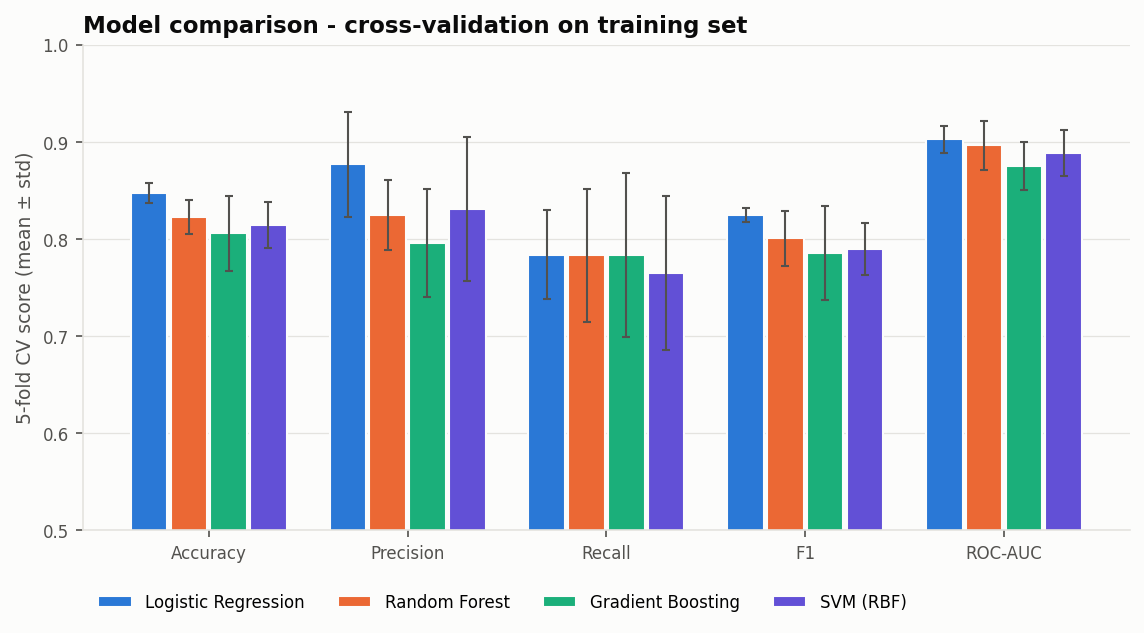
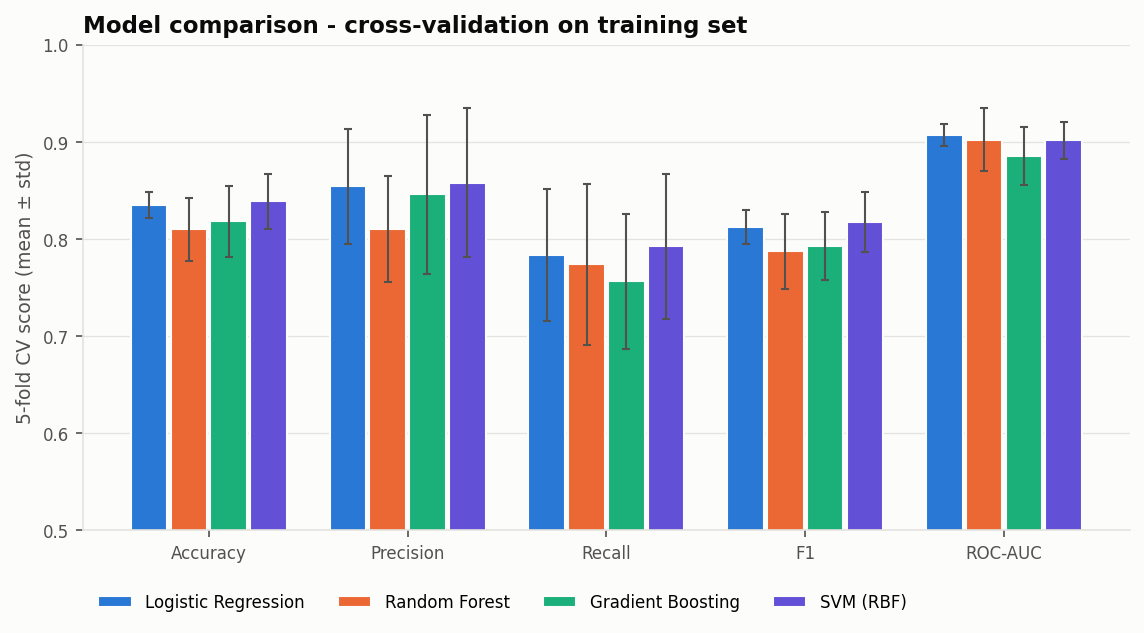
Fix: quick runs no longer overwrite champion; retrain SVM; add Stage 4-5 screenshots

diff --git a/src/train.py b/src/train.py
@@ -22,8 +22,10 @@ What one run of this script does
 Usage
 -----
     python -m src.train                  # full search (~1-2 min on a laptop)
-    python -m src.train --quick          # tiny grid, used in CI (separate
-                                         # experiment, no registry update)
+    python -m src.train --quick          # tiny grid smoke run: separate
+                                         # experiment, no registry update,
+                                         # outputs to models/quick/ and
+                                         # reports/quick/ (never the champion)
     mlflow ui --backend-store-uri mlruns # then open http://127.0.0.1:5000
 """
 
@@ -106,6 +108,24 @@ def tracking_uri() -> str:
     # e.g. http://localhost:5000 when an MLflow server is running.
     return os.environ.get("MLFLOW_TRACKING_URI",
                           (PROJECT_ROOT / "mlruns").as_uri())
+
+
+def output_paths(quick: bool) -> dict:
+    """Where this run writes its model and reports.
+
+    Quick (CI smoke) runs write to `models/quick/` and `reports/quick/`
+    (git-ignored) so they can never overwrite the real, tuned champion in
+    `models/` or the committed comparison table and figures.
+    """
+    model_dir = MODEL_DIR / "quick" if quick else MODEL_DIR
+    report_dir = REPORT_DIR / "quick" if quick else REPORT_DIR
+    return {
+        "model_dir": model_dir,
+        "model_file": model_dir / MODEL_FILE.name,
+        "metadata_file": model_dir / METADATA_FILE.name,
+        "report_dir": report_dir,
+        "fig_dir": report_dir / "figures",
+    }
 
 
 def select_best(table: pd.DataFrame) -> str:
@@ -257,6 +277,7 @@ def main(argv=None) -> dict:
         mlflow.set_experiment(args.experiment)
     log.info("MLflow tracking URI: %s", mlflow.get_tracking_uri())
 
+    out = output_paths(args.quick)
     results = {}
     session = datetime.now().strftime("session-%Y%m%d-%H%M%S")
     with mlflow.start_run(run_name=session) as parent, \
@@ -289,7 +310,7 @@ def main(argv=None) -> dict:
         best = results[best_name]
         table["selected"] = table.index == best_name
 
-        REPORT_DIR.mkdir(exist_ok=True)
+        out["fig_dir"].mkdir(parents=True, exist_ok=True)
         cols = ([f"cv_{m}_mean" for m in SCORING]
                 + [f"cv_{m}_std" for m in SCORING]
                 + [f"test_{m}" for m in SCORING]
@@ -297,24 +318,24 @@ def main(argv=None) -> dict:
                    "test_false_positives", "cv_train_roc_auc_mean",
                    "fit_seconds", "selected"])
         table = table[cols]
-        table.to_csv(REPORT_DIR / "model_comparison.csv",
+        table.to_csv(out["report_dir"] / "model_comparison.csv",
                      float_format="%.4f")
-        cmp_png = plot_model_comparison(table, FIG_DIR /
+        cmp_png = plot_model_comparison(table, out["fig_dir"] /
                                         "10_model_comparison_cv.png")
         roc_png = plot_roc_curves(
             {k: (y_test, v["y_proba"]) for k, v in results.items()},
-            FIG_DIR / "11_roc_curves_test.png",
+            out["fig_dir"] / "11_roc_curves_test.png",
             title="ROC curves - all models, test set")
         cm_png = plot_confusion_matrix(
             y_test, best["model"].predict(X_test),
             f"{MODEL_LABELS[best_name]} (selected) - test set",
-            FIG_DIR / "12_confusion_matrix_selected.png")
+            out["fig_dir"] / "12_confusion_matrix_selected.png")
         imp_png = plot_importance(
             best["importance"],
             f"{MODEL_LABELS[best_name]} (selected) - permutation importance",
-            FIG_DIR / "13_feature_importance_selected.png")
+            out["fig_dir"] / "13_feature_importance_selected.png")
 
-        for p in [REPORT_DIR / "model_comparison.csv", cmp_png, roc_png,
+        for p in [out["report_dir"] / "model_comparison.csv", cmp_png, roc_png,
                   cm_png, imp_png]:
             mlflow.log_artifact(str(p), artifact_path="comparison")
         mlflow.set_tag("selected_model", best_name)
@@ -329,8 +350,8 @@ def main(argv=None) -> dict:
         version = None if args.no_register else register_champion(
             best["run_id"], best_name)
 
-        MODEL_DIR.mkdir(exist_ok=True)
-        joblib.dump(best["model"], MODEL_FILE)
+        out["model_dir"].mkdir(parents=True, exist_ok=True)
+        joblib.dump(best["model"], out["model_file"])
         metadata = {
             "model_name": best_name,
             "model_label": MODEL_LABELS[best_name],
@@ -353,8 +374,8 @@ def main(argv=None) -> dict:
             "python_version": platform.python_version(),
             "quick_mode": args.quick,
         }
-        METADATA_FILE.write_text(json.dumps(metadata, indent=2))
-        mlflow.log_artifact(str(METADATA_FILE),
+        out["metadata_file"].write_text(json.dumps(metadata, indent=2))
+        mlflow.log_artifact(str(out["metadata_file"]),
                             artifact_path="comparison")
 
     pd.set_option("display.width", 160)
@@ -363,7 +384,7 @@ def main(argv=None) -> dict:
                   "test_accuracy", "selected"]]
     log.info("Model comparison:\n%s", show.round(3).to_string())
     log.info("Selected: %s (registered version %s)", best_name, version)
-    log.info("Saved %s", MODEL_FILE)
+    log.info("Saved %s", out["model_file"])
     return metadata
 
 

diff --git a/tests/test_integration.py b/tests/test_integration.py
@@ -47,18 +47,21 @@ def trained(workspace):
 
 def test_training_writes_all_outputs(trained):
     root, meta = trained
-    assert (root / "models" / "model.joblib").exists()
-    saved = json.loads((root / "models" / "metadata.json").read_text())
+    # quick runs must write to the quick/ sub-folders only
+    assert not (root / "models" / "model.joblib").exists()
+    assert (root / "models" / "quick" / "model.joblib").exists()
+    saved = json.loads((root / "models" / "quick" / "metadata.json")
+                       .read_text())
     assert saved["model_name"] == meta["model_name"]
     assert saved["quick_mode"] is True
     assert saved["registered_version"] is None   # quick never registers
-    table = pd.read_csv(root / "reports" / "model_comparison.csv",
+    table = pd.read_csv(root / "reports" / "quick" / "model_comparison.csv",
                         index_col=0)
     assert len(table) == 4 and table["selected"].sum() == 1
     for f in ["10_model_comparison_cv.png", "11_roc_curves_test.png",
               "12_confusion_matrix_selected.png",
               "13_feature_importance_selected.png"]:
-        assert (root / "reports" / "figures" / f).exists()
+        assert (root / "reports" / "quick" / "figures" / f).exists()
 
 
 def test_training_logs_to_mlflow(trained):
@@ -78,7 +81,7 @@ def test_training_logs_to_mlflow(trained):
 
 def test_saved_model_serves_predictions(trained):
     root, _ = trained
-    model = joblib.load(root / "models" / "model.joblib")
+    model = joblib.load(root / "models" / "quick" / "model.joblib")
     X, _ = make_data(n=5, seed=2)
     out = predict_records(model, X.to_dict(orient="records"), threshold=0.5)
     assert len(out) == 5

diff --git a/src/data_processing.py b/src/data_processing.py
@@ -116,7 +116,9 @@ def load_clean(path: Path | str = CLEAN_FILE) -> pd.DataFrame:
 def save_clean(df: pd.DataFrame, path: Path | str = CLEAN_FILE) -> Path:
     path = Path(path)
     path.parent.mkdir(parents=True, exist_ok=True)
-    df.to_csv(path, index=False)
+    # Fixed "\n" line endings so the file is byte-identical on Windows and
+    # Linux (pandas would otherwise use "\r\n" on Windows).
+    df.to_csv(path, index=False, lineterminator="\n")
     return path
 
 
